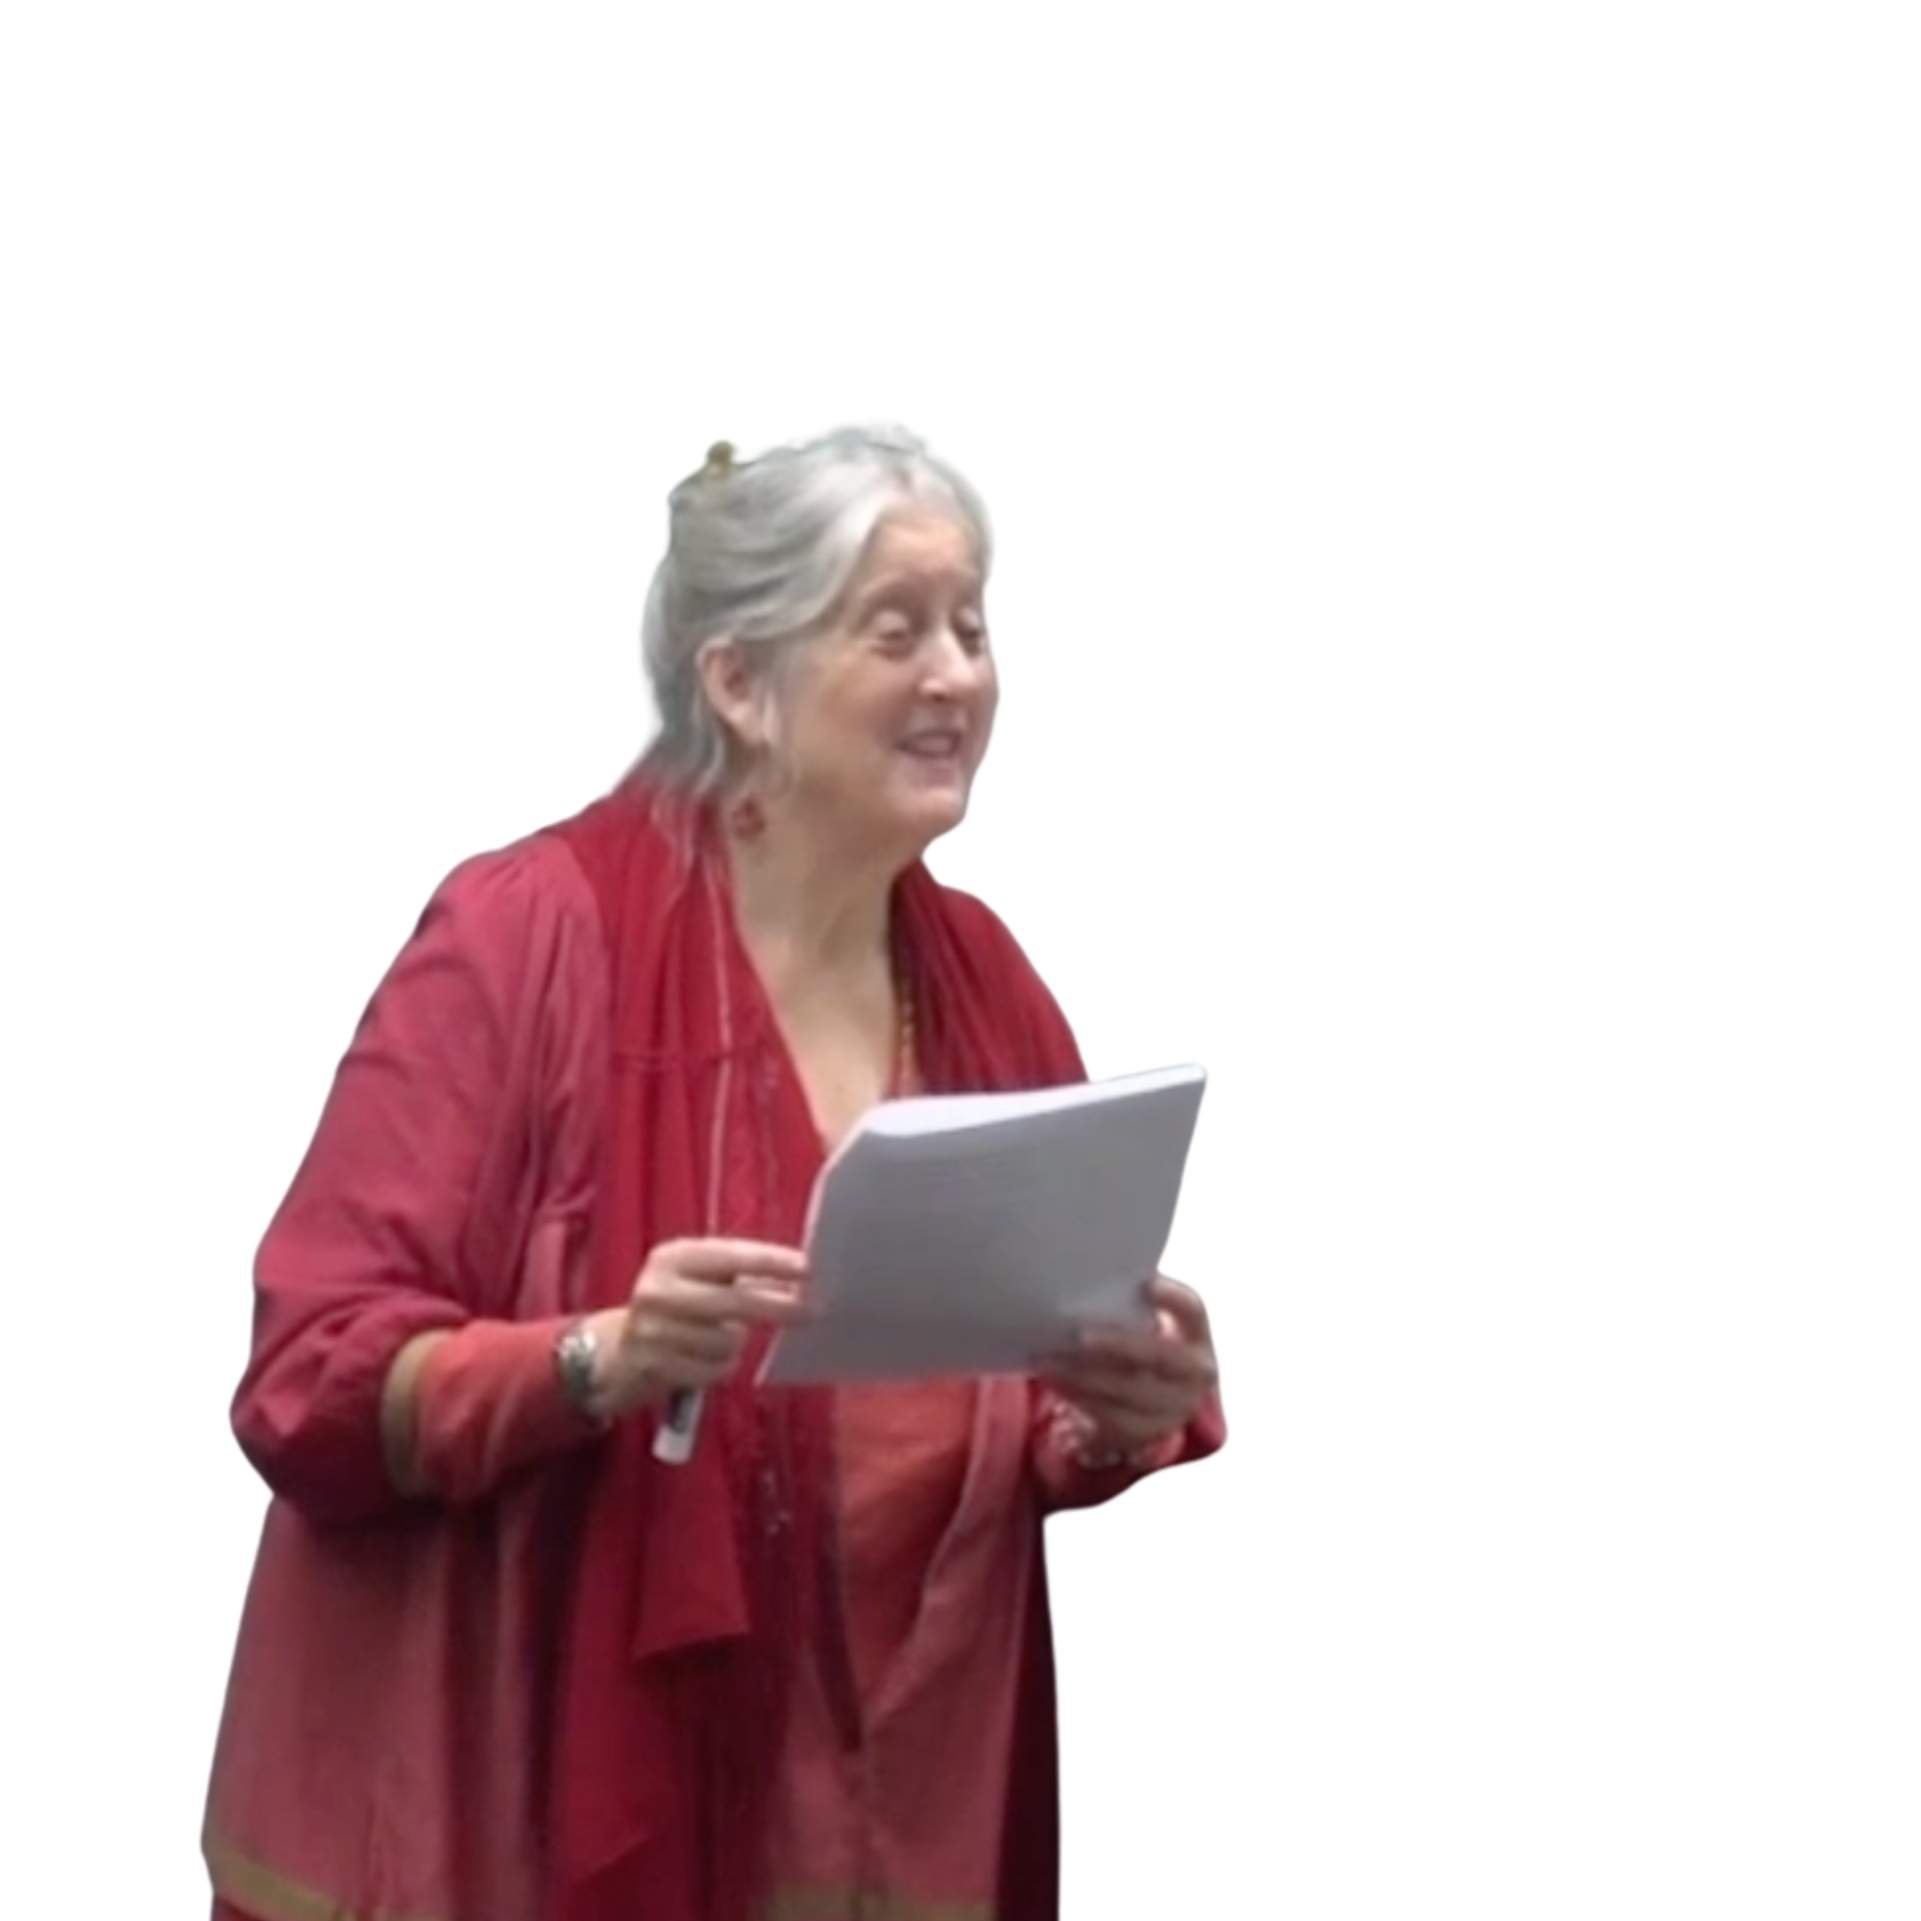
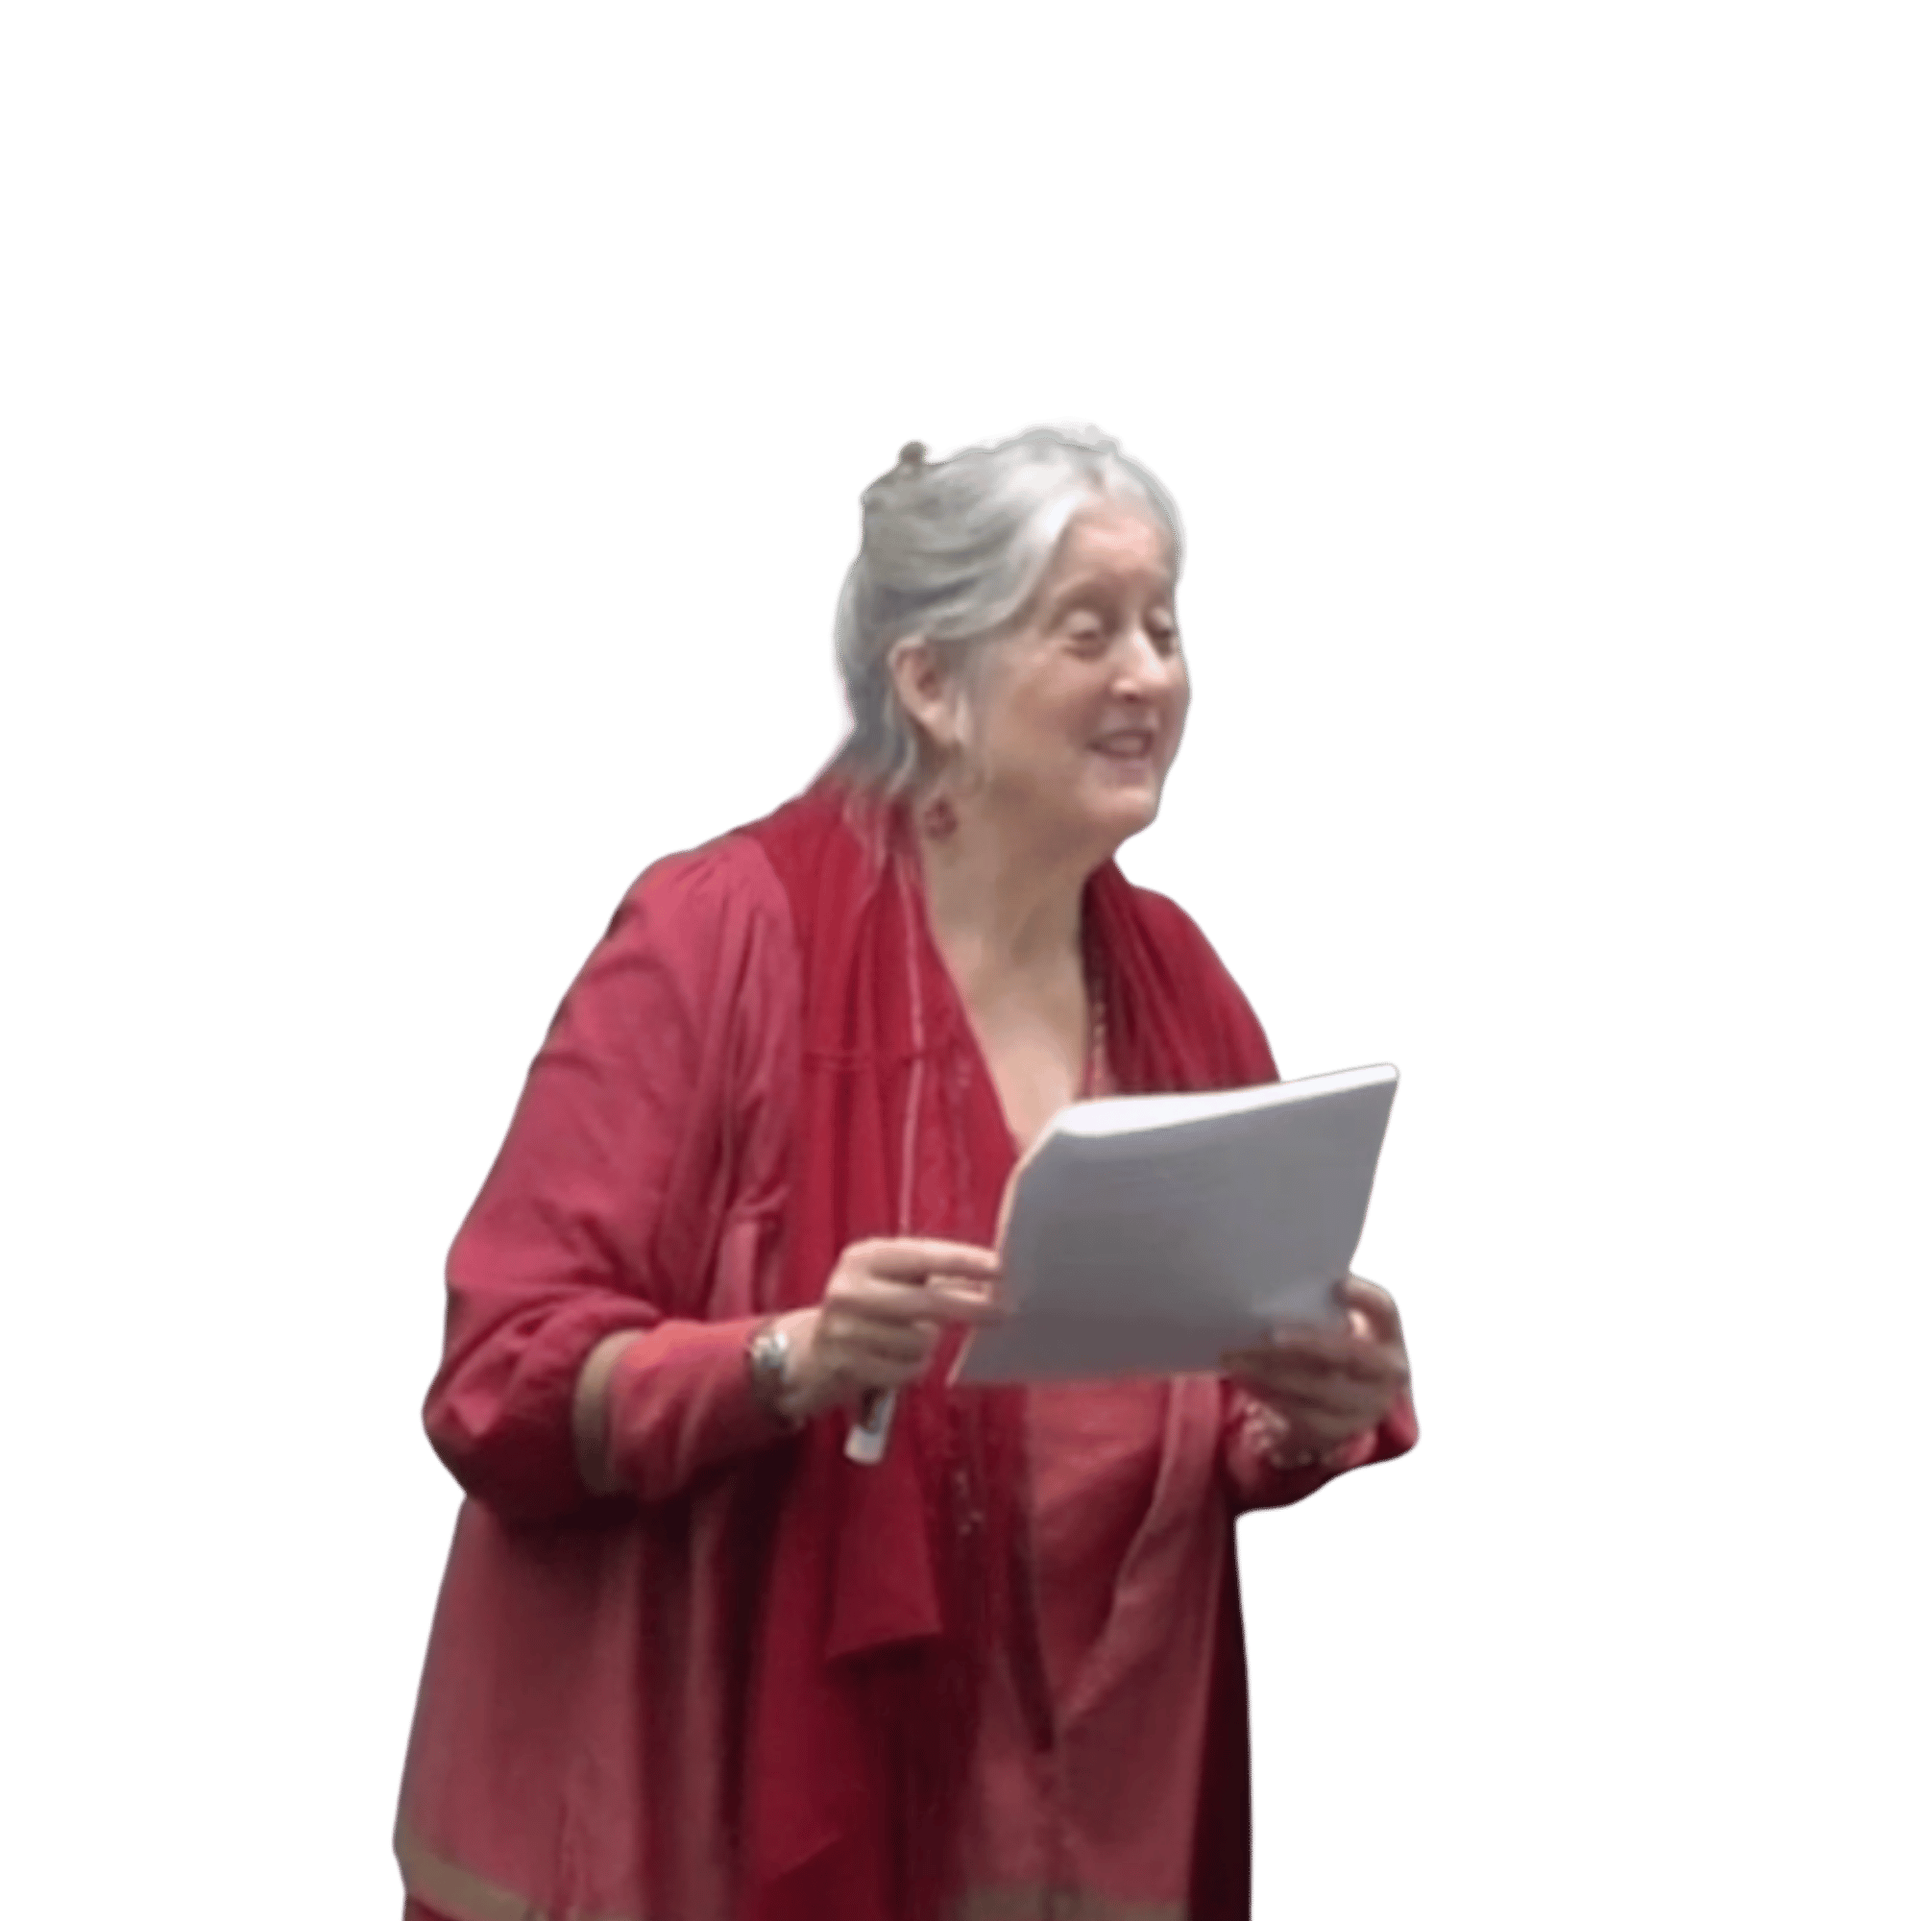
adding live classes link and changing annie's images

Changed region(s): [[0.093, 0.217, 0.744, 1.0]]

diff --git a/client/src/components/MeterModule.js b/client/src/components/MeterModule.js
@@ -269,13 +269,23 @@ function MeterModule({ moduleType }) {
                     ))}
                 </div>
 
+                {/* Enhanced Tool Section with more prominence */}
                 <div className="tool-section">
-                    <Link to="/stress-checker" className="tool-button" title="Check the rhythm of your words">
-            <span className="tool-icon" aria-hidden="true">
-              📝
-            </span>
+                    <h3 className="tools-header">Craft Companions</h3>
+                    <Link to="/stress-checker" className="tool-button" title="Check the meter of your words">
+                        {/*<span className="tool-icon" aria-hidden="true">📝</span>*/}
                         Check Word Stress
                     </Link>
+                    <a
+                        href="https://www.classes.anniefinch.com/"
+                        target="_blank"
+                        rel="noopener noreferrer"
+                        className="tool-button"
+                        title="Join Annie's Online Classes"
+                    >
+                        {/*<span className="tool-icon" aria-hidden="true">🎓</span>*/}
+                        Annie's Online Classes
+                    </a>
                 </div>
             </div>
 
@@ -345,6 +355,29 @@ function MeterModule({ moduleType }) {
                             )}
                         </div>
 
+
+                        {/*/!* Add Quick Access Tools banner *!/*/}
+                        {/*<div className="quick-access-tools">*/}
+                        {/*    <div className="tool-card">*/}
+                        {/*        <Link to="/stress-checker" className="quick-tool-link">*/}
+                        {/*            <span className="quick-tool-icon">📝</span>*/}
+                        {/*            <div className="quick-tool-info">*/}
+                        {/*                <h4>Check Word Stress</h4>*/}
+                        {/*                <p>Analyze the rhythm of your own poetry</p>*/}
+                        {/*            </div>*/}
+                        {/*        </Link>*/}
+                        {/*    </div>*/}
+                        {/*    <div className="tool-card">*/}
+                        {/*        <a href="https://www.classes.anniefinch.com/" target="_blank" rel="noopener noreferrer" className="quick-tool-link">*/}
+                        {/*            <span className="quick-tool-icon">🎓</span>*/}
+                        {/*            <div className="quick-tool-info">*/}
+                        {/*                <h4>Live Poetry Lessons</h4>*/}
+                        {/*                <p>Join Annie Finch's Online Classes</p>*/}
+                        {/*            </div>*/}
+                        {/*        </a>*/}
+                        {/*    </div>*/}
+                        {/*</div>*/}
+
                         <div className="module-controls">
                             <button
                                 className="control-button previous"
@@ -412,11 +445,19 @@ function MeterModule({ moduleType }) {
                         )}
                     </>
                 )}
-                {/* Add sticky navigation footer for mobile users */}
+                {/* Add sticky navigation footer for mobile users with enhanced tools */}
                 <div className="mobile-nav-footer">
                     <Link to="/moduleslist" className="back-link mobile-back">
                         <span className="back-icon">←</span> Back to Lessons
                     </Link>
+                    {/*<div className="mobile-tools">*/}
+                    {/*    <Link to="/stress-checker" className="mobile-tool-button">*/}
+                    {/*        <span className="tool-icon">📝</span>*/}
+                    {/*    </Link>*/}
+                    {/*    <a href="https://www.classes.anniefinch.com/" target="_blank" rel="noopener noreferrer" className="mobile-tool-button">*/}
+                    {/*        <span className="tool-icon">🎓</span>*/}
+                    {/*    </a>*/}
+                    {/*</div>*/}
                 </div>
             </div>
         </div>

diff --git a/client/src/components/style/VideoModule.css b/client/src/components/style/VideoModule.css
@@ -354,6 +354,7 @@ video::cue {
     font-size: var(--font-size-lg);
 }
 
+
 /* VideoModule.css */
 
 .module-container {
@@ -736,7 +737,6 @@ video::cue {
     bottom: 0;
     left: 0;
     width: 100%;
-    background-color: #fff;
     box-shadow: 0 -2px 10px rgba(0, 0, 0, 0.1);
     padding: 12px 16px;
     z-index: 10;
@@ -842,5 +842,157 @@ video::cue {
 
     .control-button {
         width: 100%;
+    }
+}
+
+/* Add these CSS rules to your VideoModule.css file */
+
+/* Enhanced Tool Section */
+.tools-header {
+    font-size: 1.1rem;
+    margin-top: 1.5rem;
+    margin-bottom: 0.75rem;
+    color: #555;
+    font-weight: 500;
+    padding-left: 0.5rem;
+}
+
+.tool-section {
+    padding: 1rem;
+    background-color: rgba(255, 255, 255, 0.6);
+    border-radius: 8px;
+    margin-top: 1.5rem;
+    box-shadow: 0 2px 4px rgba(0, 0, 0, 0.05);
+}
+
+.primary-tool {
+    background-color: #B357C3; /* Using the brand purple from your brand guide */
+    color: white;
+    font-weight: 500;
+    transition: all 0.2s ease;
+    margin-bottom: 0.75rem;
+}
+
+.primary-tool:hover {
+    background-color: #9a3daa;
+    transform: translateY(-2px);
+}
+
+.secondary-tool {
+    background-color: #7A9E7E; /* Using the sage green from your brand guide */
+    color: white;
+    font-weight: 500;
+    transition: all 0.2s ease;
+}
+
+.secondary-tool:hover {
+    background-color: #688a6c;
+    transform: translateY(-2px);
+}
+
+.tool-button {
+    display: flex;
+    align-items: center;
+    justify-content: flex-start;
+    width: 100%;
+    padding: 0.75rem 1rem;
+    border-radius: 6px;
+    border: none;
+    cursor: pointer;
+    font-size: 0.95rem;
+    text-decoration: none;
+    margin-bottom: 0.5rem;
+}
+
+.tool-icon {
+    margin-right: 0.75rem;
+    font-size: 1.2rem;
+}
+
+/* Quick Access Tools */
+.quick-access-tools {
+    display: flex;
+    gap: 1rem;
+    margin: 1.5rem 0;
+    padding: 0 1rem;
+}
+
+.tool-card {
+    flex: 1;
+    background-color: #f9f5fa; /* Light purple */
+    border-radius: 8px;
+    overflow: hidden;
+    box-shadow: 0 2px 6px rgba(179, 87, 195, 0.15);
+    transition: all 0.3s ease;
+}
+
+.tool-card:hover {
+    transform: translateY(-3px);
+    box-shadow: 0 4px 12px rgba(179, 87, 195, 0.2);
+}
+
+.quick-tool-link {
+    display: flex;
+    align-items: center;
+    padding: 1.25rem;
+    color: inherit;
+    text-decoration: none;
+}
+
+.quick-tool-icon {
+    font-size: 1.75rem;
+    margin-right: 1rem;
+    color: #B357C3;
+}
+
+.quick-tool-info h4 {
+    margin: 0 0 0.25rem 0;
+    font-size: 1.1rem;
+    color: #333;
+}
+
+.quick-tool-info p {
+    margin: 0;
+    font-size: 0.9rem;
+    color: #666;
+}
+
+
+.mobile-tools {
+    display: flex;
+    gap: 0.5rem;
+}
+
+.mobile-tool-button {
+    display: flex;
+    justify-content: center;
+    align-items: center;
+    width: 40px;
+    height: 40px;
+    border-radius: 50%;
+    color: white;
+    text-decoration: none;
+    transition: all 0.2s ease;
+}
+
+.mobile-tool-button:hover {
+    transform: scale(1.05);
+}
+
+/* Media queries for responsive design */
+@media (max-width: 768px) {
+    .quick-access-tools {
+        flex-direction: column;
+    }
+
+    .tool-card {
+        width: 100%;
+    }
+}
+
+/* Hide quick access tools on very small screens to avoid clutter */
+@media (max-width: 480px) {
+    .quick-access-tools {
+        display: none;
     }
 }

diff --git a/client/src/components/ModulesList.js b/client/src/components/ModulesList.js
@@ -93,7 +93,7 @@ function ModulesList() {
             path: "/dactylic-meter",
             icon: "water",
             element: "water",
-            image: "/annie-5.png",
+            image: "/annie-6.png",
             rhythm: "/ u u", /* dactyl */
             lessons: [
                 { id: 34, title: "Revision of Meter Definitions and Scansion" },

diff --git a/client/src/components/style/StressChecker.css b/client/src/components/style/StressChecker.css
@@ -139,7 +139,7 @@
 .back-link {
     display: inline-block;
     margin-top: 30px;
-    color: #B357C3; /* Updated to primary brand color */
+    color: var(--color-primary); /* Updated to primary brand color */
     text-decoration: none;
     font-size: 1.2rem;
 }
